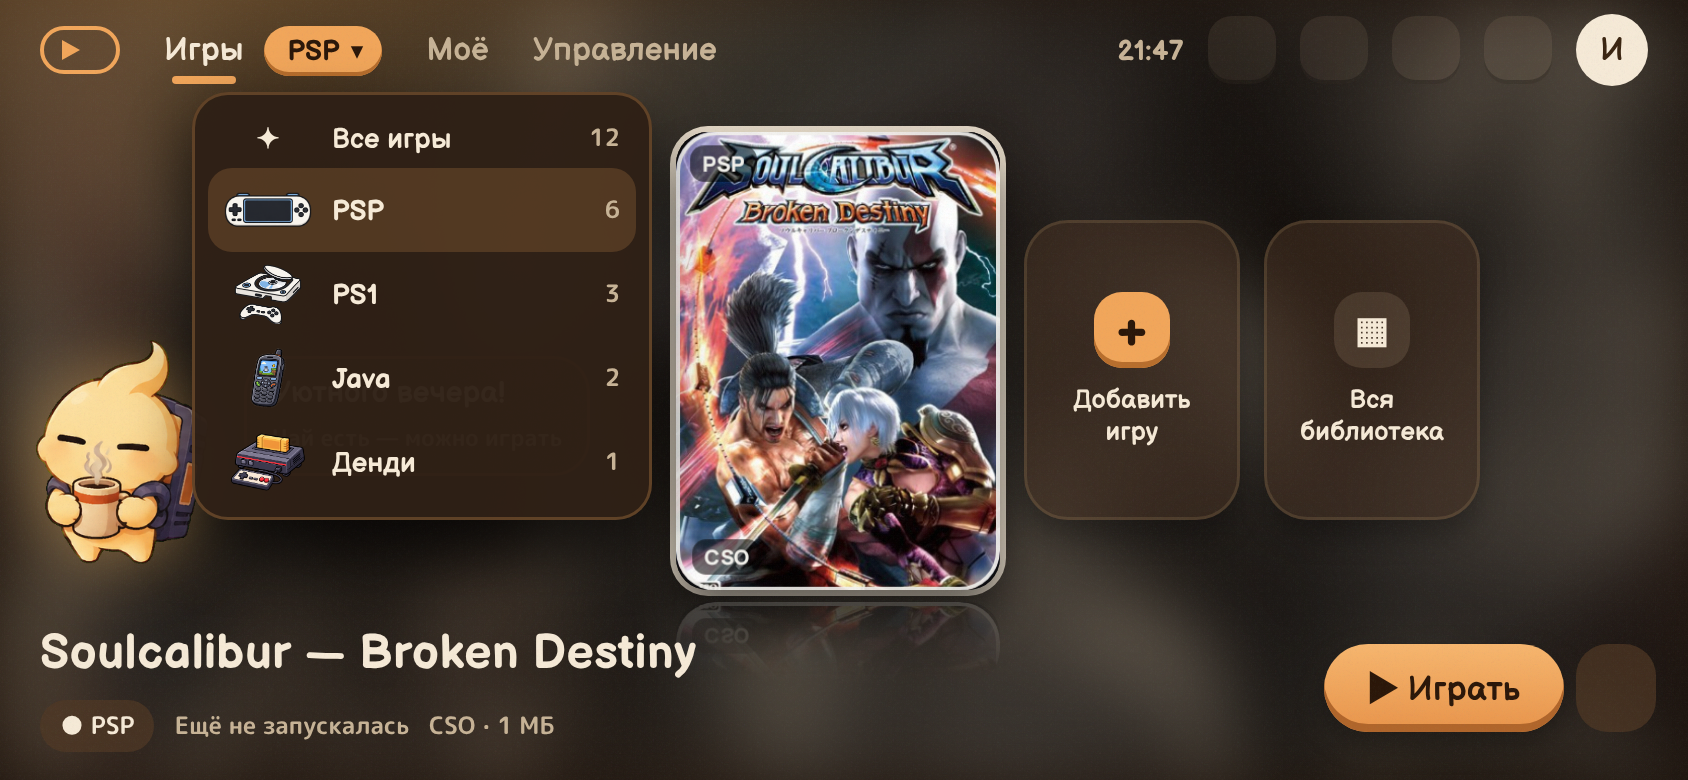
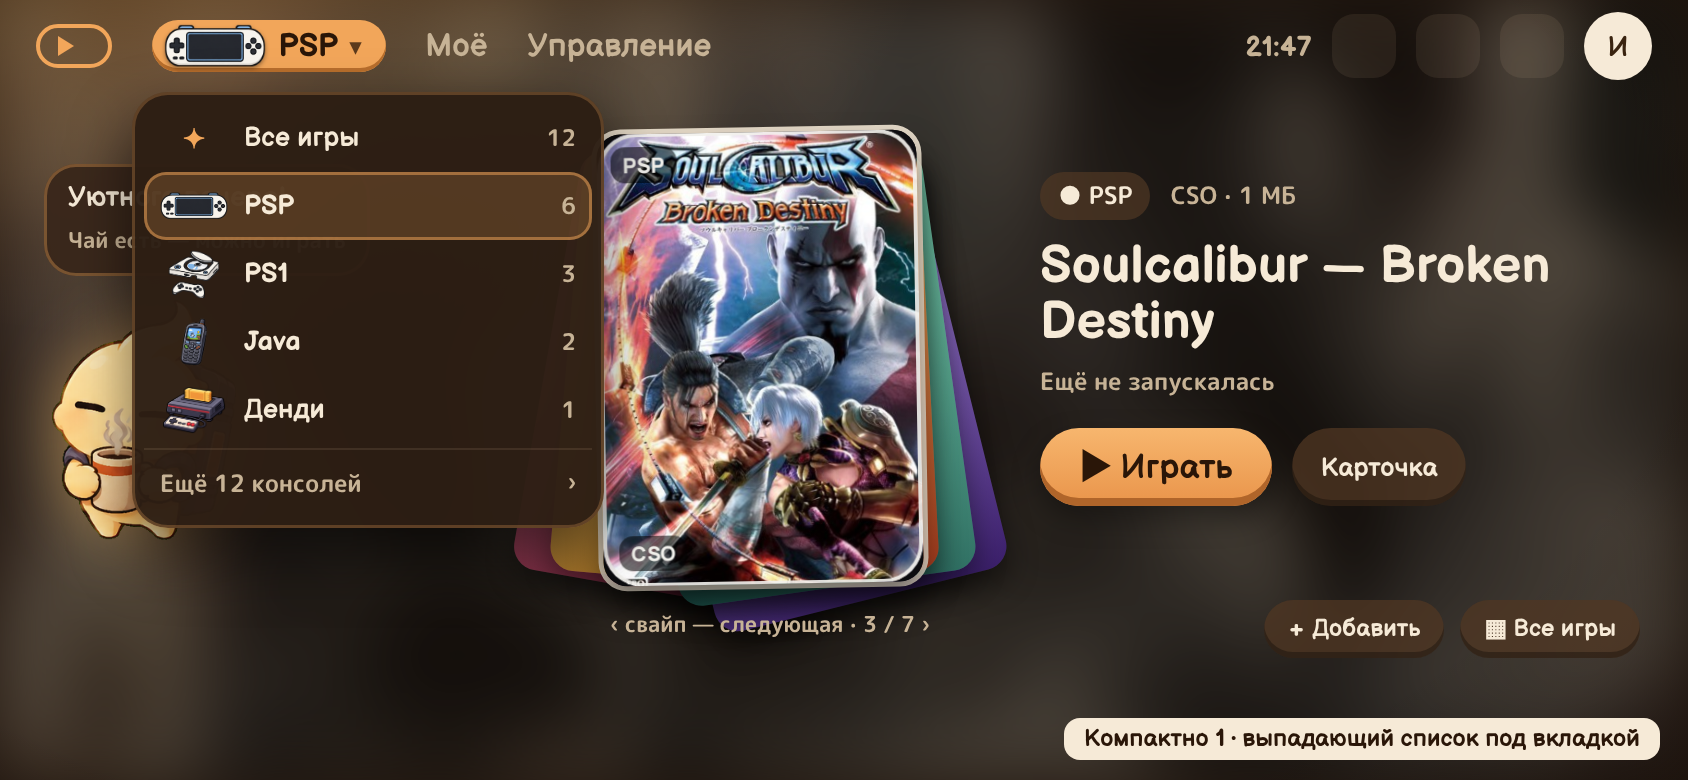
ТЗ «Вечер»: вкладка-переключатель консоли с компактным списком вместо экрана «Консоли»
Claude-Session: https://claude.ai/code/session_01XDKnk1QfYSzNW3QrHCK94s

diff --git a/plans/TZ-EVENING.md b/plans/TZ-EVENING.md
@@ -9,8 +9,12 @@
 - Элементы в «Вечере»: «объёмные» кнопки (тёмная кромка снизу), карточки сильнее скруглены с тёплой обводкой, обложка в светлой рамке с тенью и отражением; карточка «Добавить игру» — янтарный «+» вместо маскота.
 - Галочка «Включать вечером сам» (19:00–7:00), по умолчанию выкл.
 
-## 2. Выбор консоли в шапке (во всех темах) — вместо ряда вкладок (ряд занимал много места)
-Рядом с «Игры» — кнопка `PSP ▾`; нажатие — список консолей с картинками приставок и числом игр (только консоли с играми + «Все игры»). Выбор запоминается; по умолчанию — консоль последней игры. При «Все» карусель идёт группами по консолям с карточкой-разделителем («PS1 · 3 игры»). Макет: `plans/evening/mockup-console-menu.png`.
+## 2. Вкладка-переключатель консоли (во всех темах) — заменяет экран «Консоли»
+- Вкладка «Игры» показывает выбранную консоль: картинка приставки + `PSP ▾` («Все игры ▾» при всех). На другой вкладке — первое касание открывает игры, второе — список.
+- Список — компактный, выпадает под вкладкой (макет `plans/evening/mockup-console-menu.png`): «Все игры», мои консоли (картинка, название, число игр, ⚠ если нужен BIOS и его нет), строка «Ещё N консолей ›» — остальные консоли с тем, что нужно для запуска, и «Добавить игру».
+- Долгое нажатие на консоль — BIOS, настройки ядра, время в играх (то, что сейчас на экране консоли).
+- Убрать: значок «Консоли» в шапке, плитку «Консоли» в быстрой панели, отдельный экран «Консоли». Раздел BIOS в «Настройках» остаётся.
+- Строение главного экрана: ЕЩЁ НЕ ВЫБРАНО — E «Колода» / F «Ретро-меню» / B «Витрина» / C «Карусель» (`plans/evening/layout-*.png`).
 
 ## 3. Живой маскот (во всех темах), позы — `plans/mascot/poses-1.png`, `poses-2.png` (24 шт., WebP ~380 px, ~+1 МБ)
 - Движение: дыхание, моргание, взгляды по сторонам, плавная смена поз (подскок + растяжка + переход), свечение и искорки; касание — смех и подскок.
